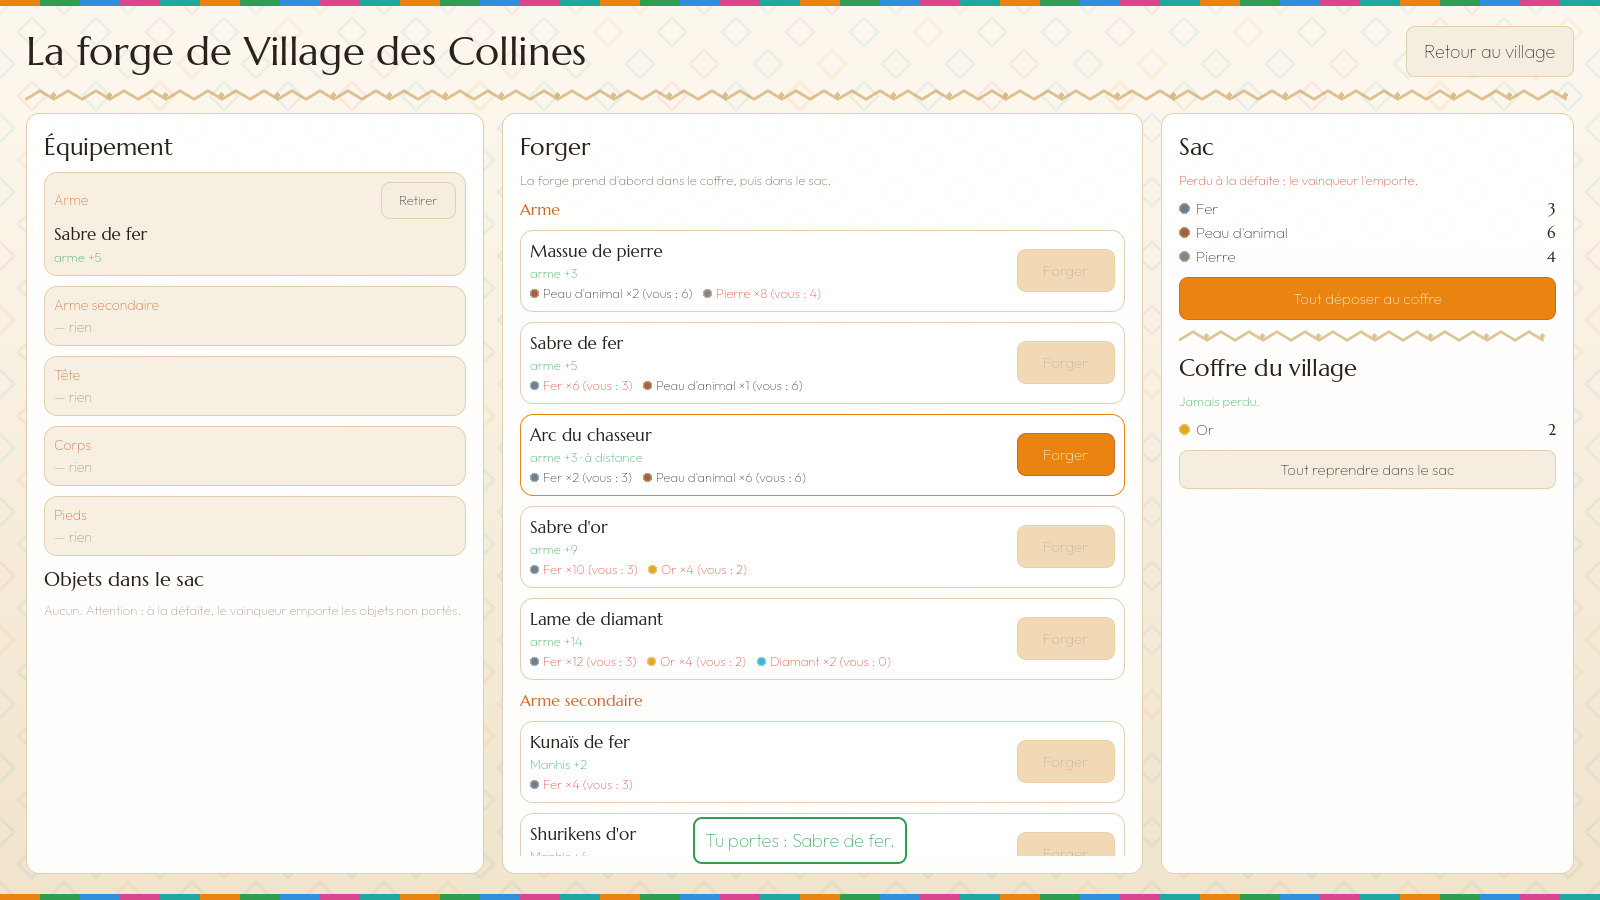
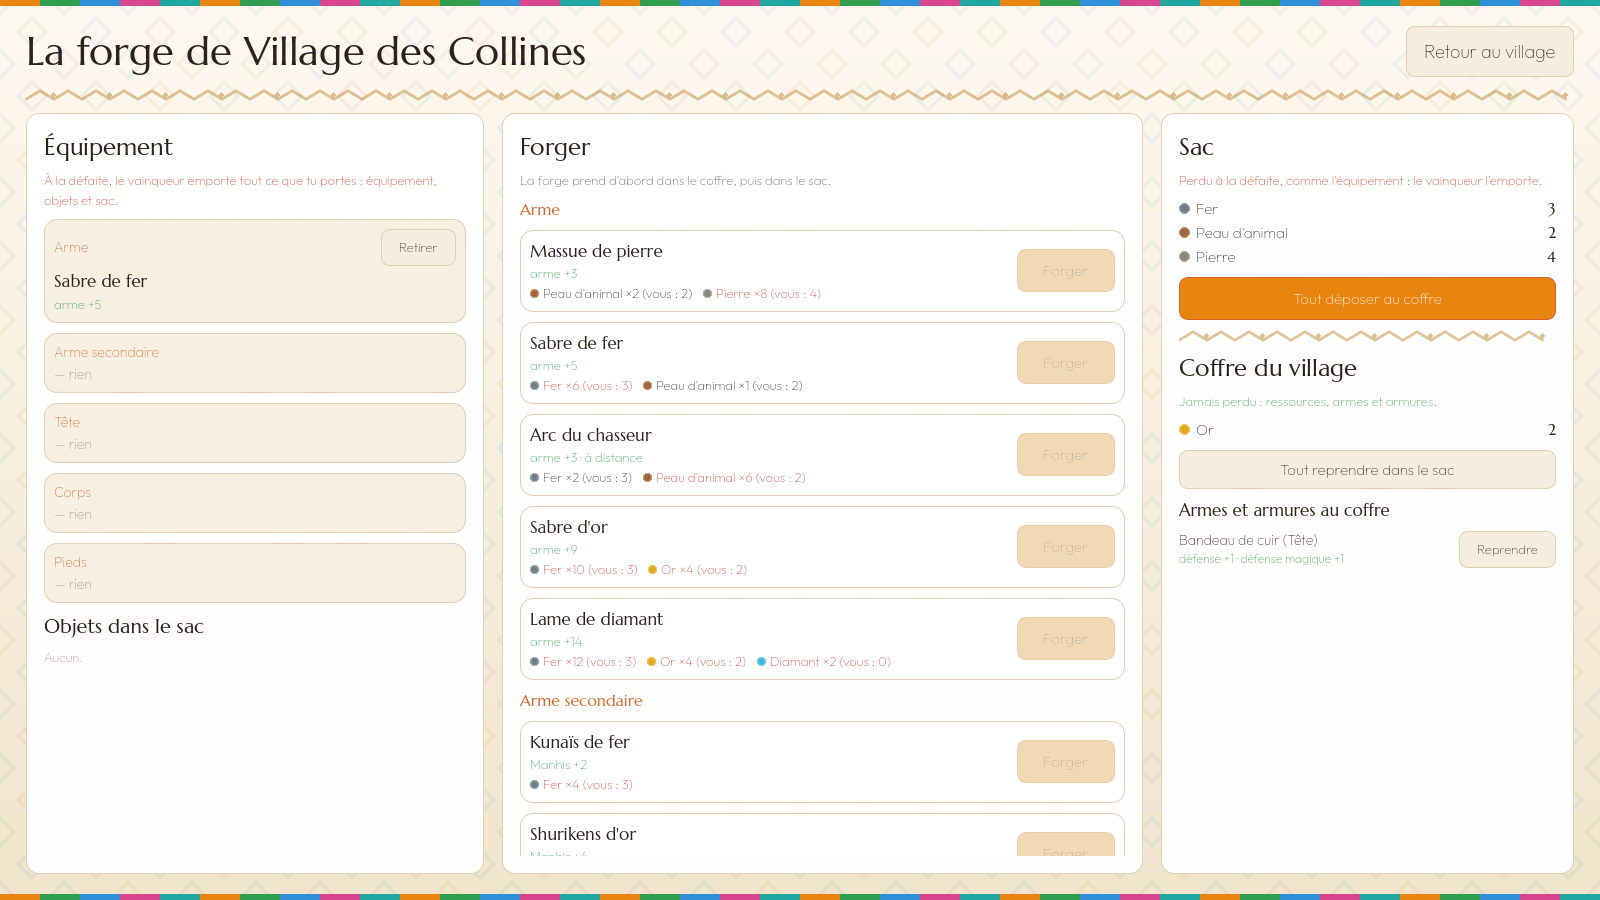
Coffre du village : ranger armes et armures de réserve
Claude-Session: https://claude.ai/code/session_018xjsrULp8mr7dHKoDzFok2

diff --git a/server/internal/game/ninja.go b/server/internal/game/ninja.go
@@ -62,13 +62,14 @@ type Ninja struct {
 	EnduranceMaj     int64                  `json:"endurance_maj"`
 	Explore          string                 `json:"explore"`
 	Defaites         int                    `json:"defaites"`
-	Exploitation     map[string]*Metier     `json:"exploitation"` // niveau d'exploitation par ressource
-	Sac              map[string]int         `json:"sac"`          // ressources portées (perdues à la défaite, comme l'équipement)
-	Coffre           map[string]int         `json:"coffre"`       // ressources à l'abri au village
-	Objets           []string               `json:"objets"`       // objets forgés non portés
-	Equipement       map[string]string      `json:"equipement"`   // emplacement → objet porté
-	Gisements        map[string]*Gisement   `json:"gisements"`    // gisements entamés
-	Camps            map[string]int64       `json:"camps"`        // camps vaincus → date de retour
+	Exploitation     map[string]*Metier     `json:"exploitation"`  // niveau d'exploitation par ressource
+	Sac              map[string]int         `json:"sac"`           // ressources portées (perdues à la défaite, comme l'équipement)
+	Coffre           map[string]int         `json:"coffre"`        // ressources à l'abri au village
+	Objets           []string               `json:"objets"`        // objets forgés non portés (dans le sac)
+	CoffreObjets     []string               `json:"coffre_objets"` // objets rangés au coffre du village
+	Equipement       map[string]string      `json:"equipement"`    // emplacement → objet porté
+	Gisements        map[string]*Gisement   `json:"gisements"`     // gisements entamés
+	Camps            map[string]int64       `json:"camps"`         // camps vaincus → date de retour
 	Creation         time.Time              `json:"creation"`
 }
 

diff --git a/server/internal/game/ressources_test.go b/server/internal/game/ressources_test.go
@@ -124,14 +124,25 @@ func TestCampForgeEtDefaite(t *testing.T) {
 	if c := n.Combattant(p.Maintenant()); c.Arme.Puissance <= base || c.Arme.Nom != "un sabre de fer" {
 		t.Errorf("l'arme forgée compte en combat : %+v", c.Arme)
 	}
+	// Le coffre garde aussi les objets.
+	n.Objets = []string{"bandeau_cuir", "veste_cuir"}
+	if _, err := p.RangerObjet("veste_cuir"); err != nil || len(n.CoffreObjets) != 1 {
+		t.Fatalf("ranger au coffre : %v %v", err, n.CoffreObjets)
+	}
 	// Défaite : le sac, les objets et l'équipement porté sont perdus, pas le coffre.
 	n.Coffre[carte.Pierre] = 7
-	n.Objets = []string{"bandeau_cuir"}
 	p.DemarrerCombat("chacals")
 	p.combat.Fini, p.combat.Vainqueur = true, 1
 	fin = p.terminer()
 	if len(n.Sac) != 0 || len(n.Objets) != 0 || n.Coffre[carte.Pierre] != 7 || len(n.Equipement) != 0 {
 		t.Errorf("après défaite : sac %v objets %v coffre %v équipement %v", n.Sac, n.Objets, n.Coffre, n.Equipement)
+	}
+	if len(n.CoffreObjets) != 1 {
+		t.Errorf("le coffre garde ses objets : %v", n.CoffreObjets)
+	}
+	n.Position = [2]int{v.X, v.Y}
+	if _, err := p.SortirObjet("veste_cuir"); err != nil || len(n.Objets) != 1 {
+		t.Errorf("reprendre du coffre : %v %v", err, n.Objets)
 	}
 	if len(fin.ObjetsPerdus) != 2 {
 		t.Errorf("objets perdus : %v", fin.ObjetsPerdus)

diff --git a/server/internal/game/ressources.go b/server/internal/game/ressources.go
@@ -108,6 +108,9 @@ func (n *Ninja) initialiserRessources() {
 	if n.Objets == nil {
 		n.Objets = []string{}
 	}
+	if n.CoffreObjets == nil {
+		n.CoffreObjets = []string{}
+	}
 	if n.Equipement == nil {
 		n.Equipement = map[string]string{}
 	}
@@ -387,6 +390,39 @@ func (p *Partie) transferer(deposer bool) (*NinjaVue, error) {
 		vers[r] += q
 		delete(de, r)
 	}
+	return p.vueNinja(), p.sauver()
+}
+
+// RangerObjet met au coffre un objet du sac : il ne sera jamais perdu.
+func (p *Partie) RangerObjet(id string) (*NinjaVue, error) {
+	return p.deplacerObjet(id, true)
+}
+
+// SortirObjet reprend un objet du coffre dans le sac.
+func (p *Partie) SortirObjet(id string) (*NinjaVue, error) {
+	return p.deplacerObjet(id, false)
+}
+
+func (p *Partie) deplacerObjet(id string, ranger bool) (*NinjaVue, error) {
+	p.mu.Lock()
+	defer p.mu.Unlock()
+	n := p.Ninja
+	if n == nil {
+		return nil, ErrPasDeNinja
+	}
+	if !p.dansSonVillage() {
+		return nil, ErrHorsVillage
+	}
+	de, vers := &n.Objets, &n.CoffreObjets
+	if !ranger {
+		de, vers = &n.CoffreObjets, &n.Objets
+	}
+	i := indexOf(*de, id)
+	if i < 0 {
+		return nil, ErrPasLObjet
+	}
+	*de = append((*de)[:i], (*de)[i+1:]...)
+	*vers = append(*vers, id)
 	return p.vueNinja(), p.sauver()
 }
 

diff --git a/server/internal/api/api.go b/server/internal/api/api.go
@@ -162,6 +162,18 @@ func Nouveau(p *game.Partie) *Serveur {
 	s.mux.HandleFunc("POST /api/village/reprendre", func(w http.ResponseWriter, r *http.Request) {
 		repondre(w)(p.Reprendre())
 	})
+	s.mux.HandleFunc("POST /api/village/ranger", func(w http.ResponseWriter, r *http.Request) {
+		var req struct{ Objet string }
+		if lire(w, r, &req) {
+			repondre(w)(p.RangerObjet(req.Objet))
+		}
+	})
+	s.mux.HandleFunc("POST /api/village/sortir", func(w http.ResponseWriter, r *http.Request) {
+		var req struct{ Objet string }
+		if lire(w, r, &req) {
+			repondre(w)(p.SortirObjet(req.Objet))
+		}
+	})
 	s.mux.HandleFunc("POST /api/forge/fabriquer", func(w http.ResponseWriter, r *http.Request) {
 		var req struct{ Objet string }
 		if lire(w, r, &req) {

diff --git a/docs/GDD.md b/docs/GDD.md
@@ -317,7 +317,7 @@ Le cœur de la forêt de Taï, le sommet du mont Nimba, les profondeurs des lagu
 - Un gisement s'épuise après 5 récoltes et se reconstitue d'un point toutes les 10 minutes.
 - **Pendant la récolte** (une fois sur cinq) : des **bandits** surgissent (combat), ou **un autre ninja** arrive sur le gisement. On peut aussi trouver un ninja en arrivant sur un gisement. **Toute personne qui n'est pas de ton équipe est affrontable**, même un ninja de ton propre village : on choisit **Affronter** ou **Ignorer**. Hors ligne, ces ninjas sont simulés ; en ligne, ce seront de vrais joueurs.
 - **Camp de bandits** : on l'attaque (ou les bandits vous repèrent en entrant, une fois sur trois). Vaincu, il laisse son butin (fer, peaux, parfois de l'or) et se reforme en 30 minutes.
-- **Sac et coffre** : les ressources récoltées vont dans le **sac**. À la défaite, le vainqueur emporte le sac, les objets et **l'équipement porté** (Décidé). Le **coffre du village** ne se perd jamais.
+- **Sac et coffre** : les ressources récoltées vont dans le **sac**. À la défaite, le vainqueur emporte le sac, les objets et **l'équipement porté** (Décidé). Le **coffre du village** ne se perd jamais : on y range ses ressources, mais aussi des **armes et armures de réserve** pour se rééquiper après une défaite (Décidé).
 - **Forge du village** : 17 objets pour 5 emplacements (arme, arme secondaire, tête, corps, pieds), du sabre de fer à l'armure de diamant. Les armes ajoutent de la puissance, les armures de la défense physique ou magique, des PV, du Manhis.
 
 ### La carte (étape 3 ; Proposé et en place, à ajuster)
